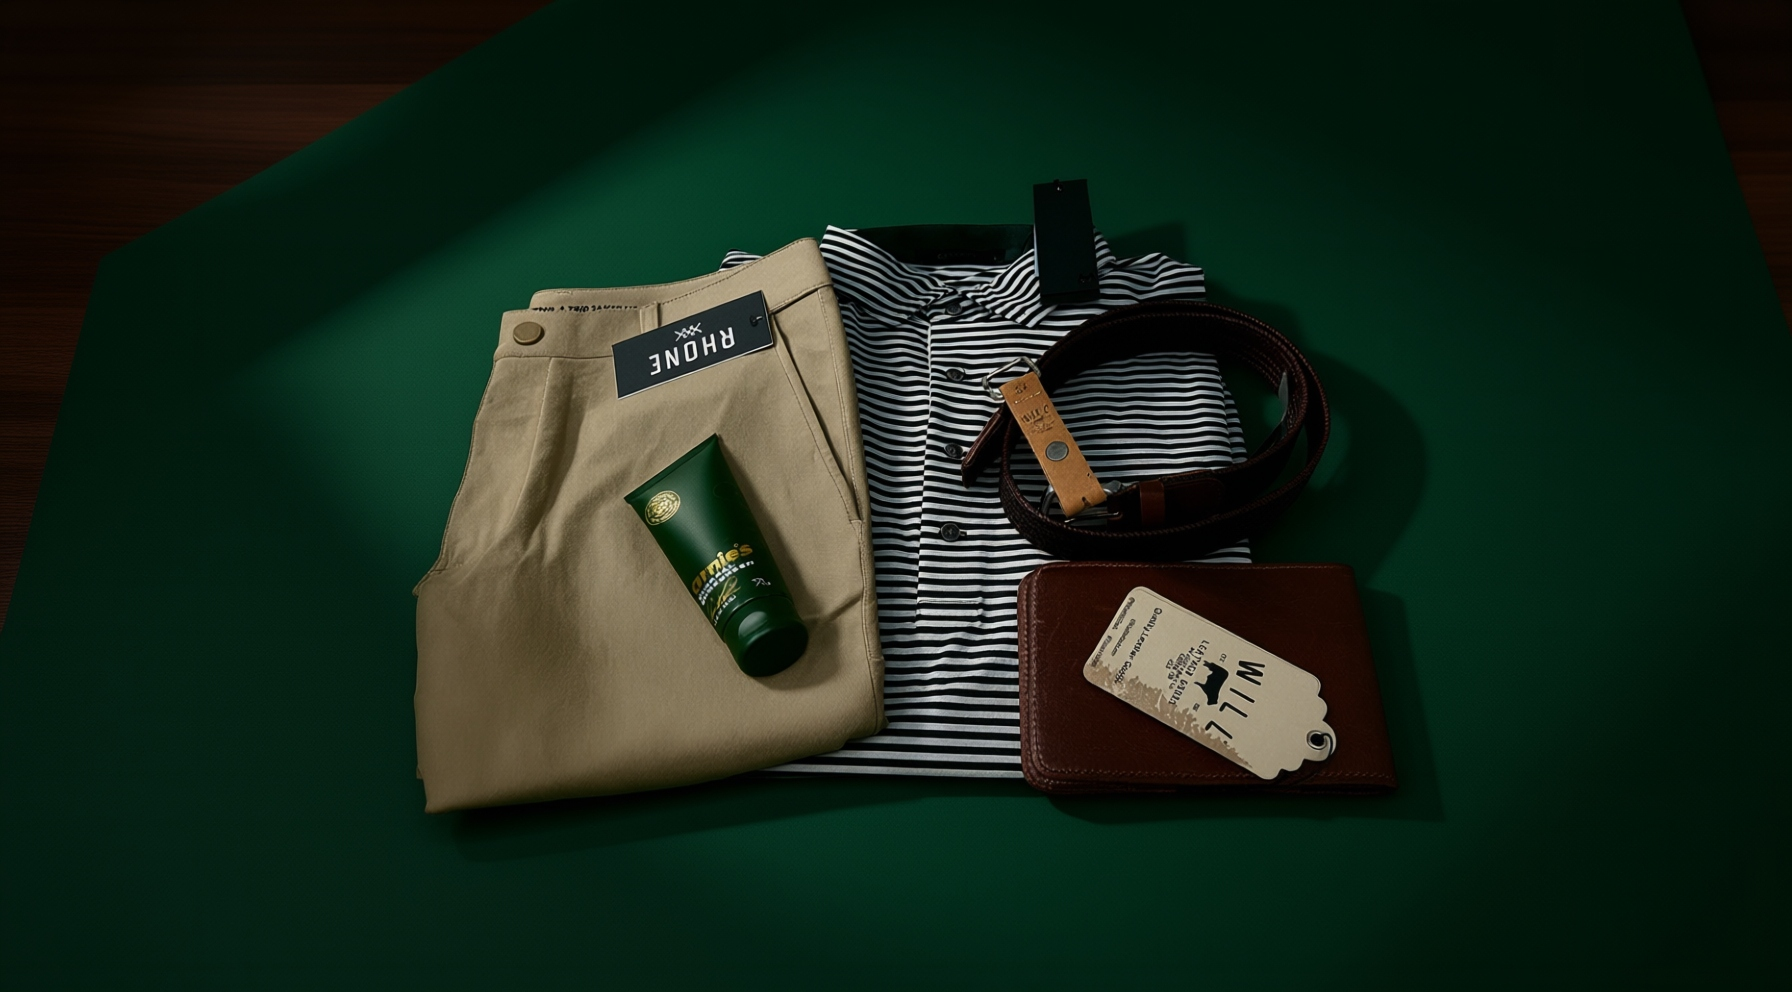
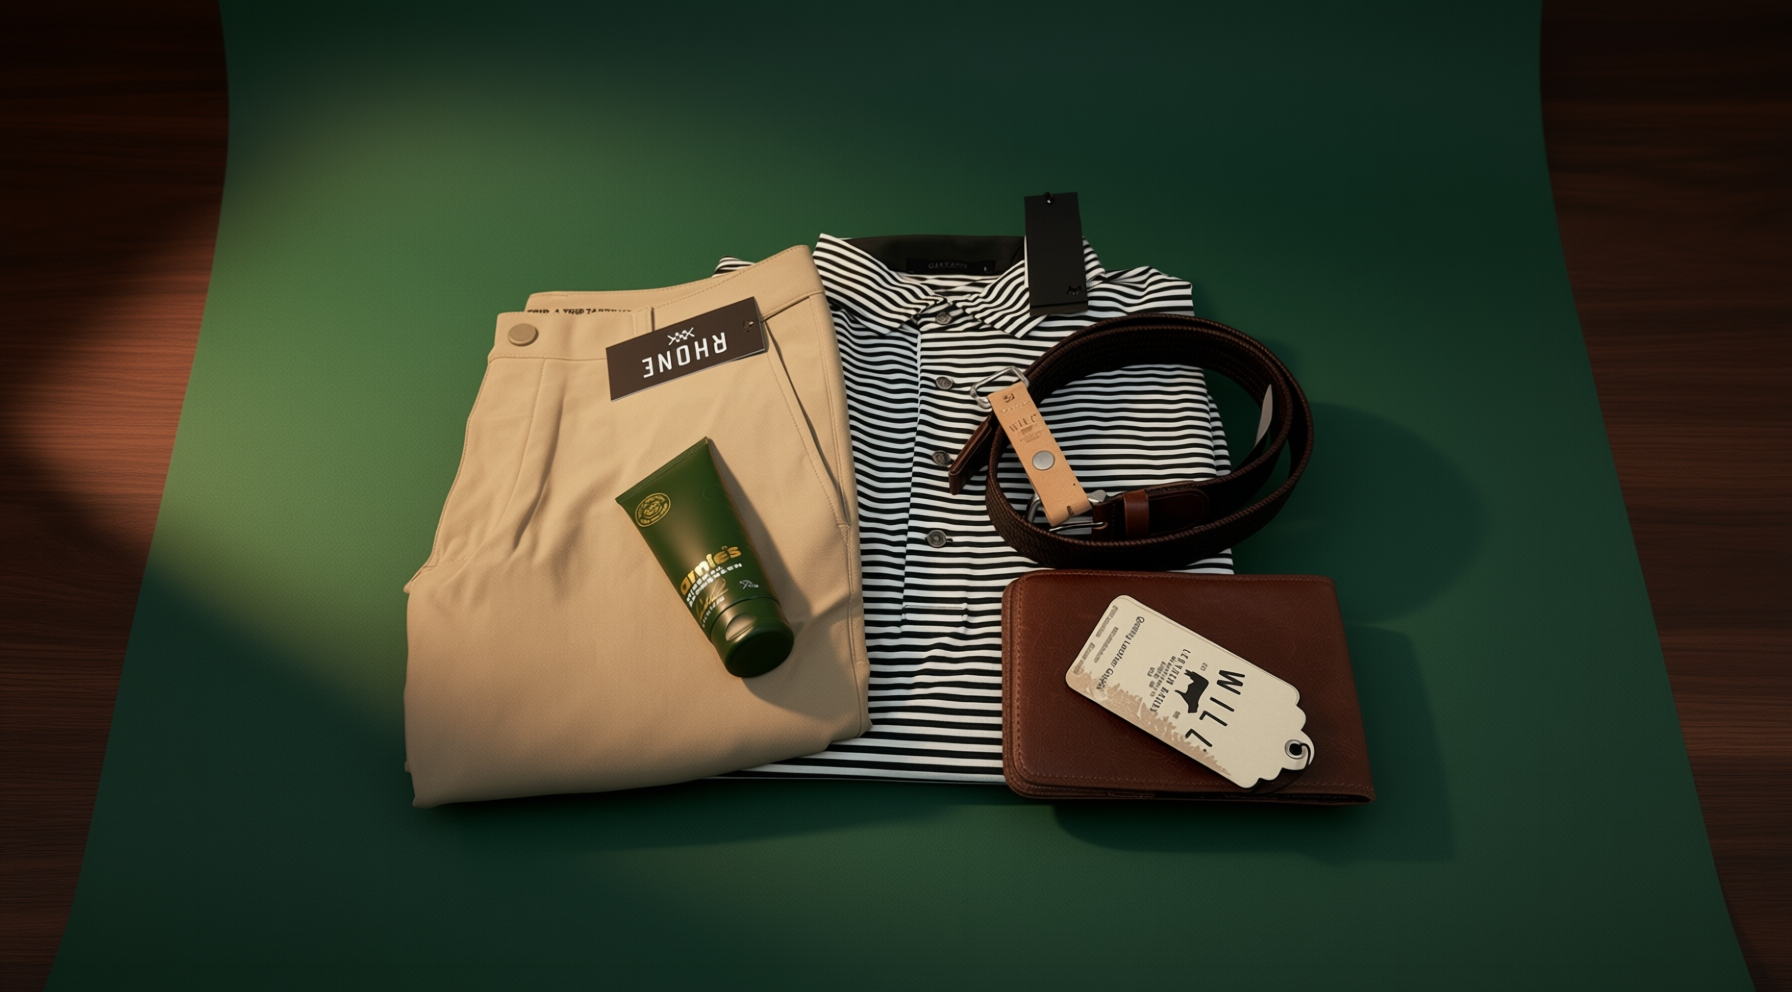
chore(lp/discover): swap in higher-quality hero + branded unboxing photo, add tier eyebrow breathing room (#116)
- Replace public/lp/discover/Hero-8.jpg with the sharper render (was
  soft/pixely at fold size).
- Replace public/lp/discover/Unboxing-7.jpg with the branded open-box
  shot on the solid forest background (previous file was rotated
  incorrectly).
- Bump tier section top padding from pt-6/pt-10 to pt-14/pt-16/pt-20
  so the CHOOSE YOUR FIRST BOX eyebrow has breathing room off the
  hero edge. Kept the header-to-cards margin compact so the full
  tier card (image -> CTA) still fits at 1440x900.

diff --git a/src/app/lp/discover/DiscoverLPClient.tsx b/src/app/lp/discover/DiscoverLPClient.tsx
@@ -391,10 +391,11 @@ export default function DiscoverLPClient() {
       </section>
 
       {/* =============================== TIER CARDS ========================== */}
-      <section id="tiers" className="pt-6 md:pt-10 pb-10 md:pb-14">
+      <section id="tiers" className="pt-14 sm:pt-16 md:pt-20 pb-10 md:pb-14">
         <div className="max-w-6xl mx-auto px-5 sm:px-8">
-          {/* Section header. Compact on desktop so the tier cards fit above
-              the fold at 900px viewport height. */}
+          {/* Section header. Extra top padding so the eyebrow breathes off
+              the hero edge; margin below the header stays compact so the
+              tier cards still fit above the fold at 1440×900. */}
           <div className="text-center mb-6 sm:mb-8">
             <div className="text-[10px] tracking-[0.28em] uppercase text-forest/60 mb-3">
               Choose your first box
